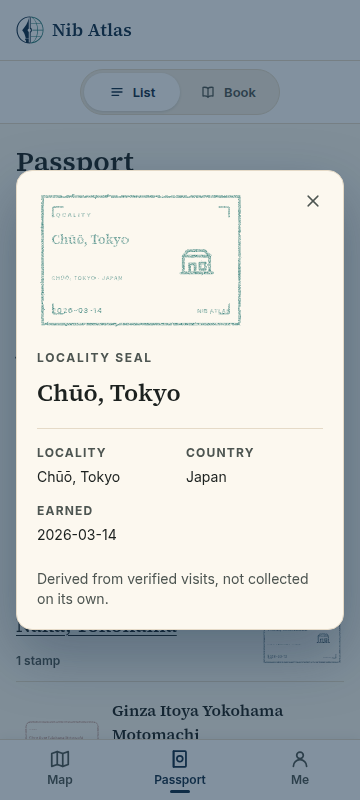
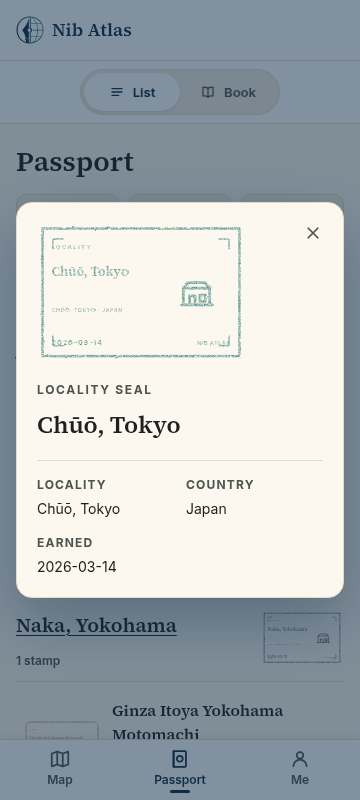
WP3 final review: a seal overlay ends on its facts
The seal overlay closed with "Derived from verified visits, not collected on its
own." — a line added to explain why there is no Open shop. The review rejected
the reasoning: the interface should not narrate why an inapplicable action is
absent. The line and its .sealNote rule are gone with nothing in their place;
why a seal has no shop to open stays as a code comment on SealDetail. .facts
drops its bottom margin when it is last, so the sheet ends on the earned date
rather than on a gap.

Regenerating the evidence exposed two captures photographing the wrong state:
stamp-detail selected by the date 2026-03-14, which the Chūō, Tokyo locality
seal shares and now precedes, so it showed the seal rather than a shop stamp;
book-locality-seal duplicated book-locality. The first selects Ginza Itoya Main
Store by name, as the e2e suite already did, and the second now opens the seal
from the Book page. Evidence defects only — nothing about the interface was
unverified.

Claude-Session: https://claude.ai/code/session_01FvgCoAVp2n7kQ97qnyD9rV

Changed region(s): [[0.0306, 0.1875, 0.9778, 0.8125], [0.5194, 0.5312, 0.7028, 0.6562]]

diff --git a/tests/evidence/wp3-passport.spec.ts b/tests/evidence/wp3-passport.spec.ts
@@ -159,8 +159,15 @@ for (const breakpoint of BREAKPOINTS) {
       await page.goto("/passport");
       await settled(page);
 
-      await page.getByRole("button").filter({ hasText: /2026-03-14/ }).first().click();
-      await expect(page.getByRole("dialog")).toBeVisible();
+      // By shop name, not by date: the locality seal beside the heading was
+      // earned on this stamp's own date, so a date filter picks the seal.
+      await page
+        .getByRole("button", { name: /Ginza Itoya Main Store/ })
+        .first()
+        .click();
+      await expect(
+        page.getByRole("heading", { name: "Ginza Itoya Main Store" }),
+      ).toBeVisible();
       await capture(page, `${breakpoint.name}-stamp-detail`);
     });
 
@@ -195,14 +202,24 @@ for (const breakpoint of BREAKPOINTS) {
       await capture(page, `${breakpoint.name}-seal-locality`);
     });
 
-    /** The Book's locality page, where the seal is artwork rather than a line. */
-    test("Book locality page with its seal", async ({ page }) => {
+    /**
+     * The same seal opened from the Book rather than from List.
+     *
+     * The locality page itself is already in `-book-locality`, where the seal is
+     * artwork rather than the WP3 line of text; this is the state that follows
+     * pressing it, which is what the founder's review asked for.
+     */
+    test("Book locality seal, opened", async ({ page }) => {
       await useNormalMode(page);
       await seedSampleCollection(page);
       await seedPassportView(page, { mode: "book", coverSeen: true });
       await page.goto("/passport/jp/chuo-tokyo");
       await bookSettled(page);
 
+      await page
+        .getByRole("button", { name: /^Locality seal, Chūō, Tokyo/ })
+        .click();
+      await expect(page.getByRole("dialog")).toBeVisible();
       await capture(page, `${breakpoint.name}-book-locality-seal`);
     });
 

diff --git a/src/components/passport/PassportDetailOverlay.module.css b/src/components/passport/PassportDetailOverlay.module.css
@@ -116,17 +116,9 @@
   line-height: var(--type-body-sm-line);
 }
 
-/*
- * The one line a seal carries that a stamp does not.
- *
- * A seal has no shop to open, and an overlay that simply stopped after the facts
- * would read as though the control were missing. One quiet line says why there
- * is nothing to press.
- */
-.sealNote {
-  color: var(--text-secondary);
-  font-size: var(--type-body-sm-size);
-  line-height: var(--type-body-sm-line);
+/* A seal ends on its facts, with nothing below to be spaced away from. */
+.facts:last-child {
+  margin-bottom: 0;
 }
 
 @keyframes scrim-in {

diff --git a/src/components/passport/PassportDetailOverlay.tsx b/src/components/passport/PassportDetailOverlay.tsx
@@ -175,10 +175,6 @@ function SealDetail({
           </dd>
         </div>
       </dl>
-
-      <p className={styles.sealNote}>
-        Derived from verified visits, not collected on its own.
-      </p>
     </>
   );
 }

diff --git a/docs/milestone-1-5-product-refinement.md b/docs/milestone-1-5-product-refinement.md
@@ -1565,9 +1565,9 @@ interchangeable in content. Each branch states what its own kind records:
 **No derived seal offers Open shop, and none reports a collection date.** A country
 seal derives from five stamps or a complete curated set and a locality seal from
 the first stamp there, so there is no single shop for either to lead to; offering
-one would misreport what a seal is. One quiet line says so, in place of the
-action, rather than leaving the overlay looking as though a control had gone
-missing.
+one would misreport what a seal is. The overlay simply ends on the earned date,
+and says nothing about why (see the final review below). The reasoning stays in
+the component as a code comment.
 
 Where the seals became selectable:
 
@@ -1665,6 +1665,39 @@ screen; every other baseline still matches.
   impression is recorded below as WP5's.
 - **No Map changes.** The pointer and touch decisions from the same review are
   recorded below as WP6's.
+
+### WP3 revisions after the final review
+
+#### A seal overlay ends on its facts
+
+The seal overlay carried one closing line — *"Derived from verified visits, not
+collected on its own."* — added on the reasoning that an overlay ending straight
+after the earned date would read as though **Open shop** had gone missing. The
+review rejected that reasoning: the interface should not narrate why an
+inapplicable action is absent, and the line was the same over-explicit pattern
+the founder has asked us to drop elsewhere. It is gone, with nothing in its place,
+along with its `.sealNote` rule. Why a seal has no shop to open stays where it
+belongs — a code comment on `SealDetail`. `.facts` loses its bottom margin when it
+is the last thing on the sheet, so the seal overlay closes on the earned date
+rather than on a gap.
+
+#### Two evidence captures were wrong
+
+Regenerating the captures showed `stamp-detail` and `seal-locality` were
+byte-identical, and `book-locality-seal` identical to `book-locality`:
+
+- `stamp-detail` selected the first button containing *2026-03-14*. The locality
+  seal for Chūō, Tokyo derives from that same stamp, so it carries that date too
+  and now sits ahead of the rows — the capture was photographing the seal. It
+  selects **Ginza Itoya Main Store** by name instead, which is what the row is
+  identified by everywhere else in the suite.
+- `book-locality-seal` opened the Book's locality page, which `book-locality`
+  already shows. It now opens the seal from that page, which is the state the
+  founder's correction was actually about; the README says which capture shows
+  which.
+
+Both were evidence defects only — `tests/e2e/passport.spec.ts` had targeted the
+row by shop name from the start, so nothing about the interface was unverified.
 
 ## Founder decisions recorded for later work packages
 

diff --git a/docs/evidence/milestone-1-5-wp3/README.md b/docs/evidence/milestone-1-5-wp3/README.md
@@ -41,7 +41,7 @@ capture time so the frames are deterministic.
 | `stamp-detail` | The enlarged impression: the stamp at a useful size, its tier, the shop name and local-script name, locality, country, local collection date, and **Open shop** |
 | `seal-country` | The enlarged country seal: the artwork at size, **Country seal**, the country and the earned date. No shop fields and no **Open shop** — a seal is derived from visits, not one of them |
 | `seal-locality` | The enlarged locality seal: the same, with the locality named as well as the country |
-| `book-locality-seal` | A Book locality page carrying its seal as selectable artwork with concise supporting text, in place of WP3's text-only *Locality seal earned…* line |
+| `book-locality-seal` | The locality seal opened from the Book rather than from List. `book-locality` above shows the page it was pressed on, where the seal is selectable artwork with concise supporting text in place of WP3's text-only *Locality seal earned…* line |
 | `identity-named` | The identity page with a display name from the account seam |
 | `identity-fallback` | The same page with no display name: **Your Passport**. Never anything derived from an address |
 | `book-reduced-motion` | The opening spread with reduced motion: no three-quarter tilt, no perspective, every page and control unchanged |
